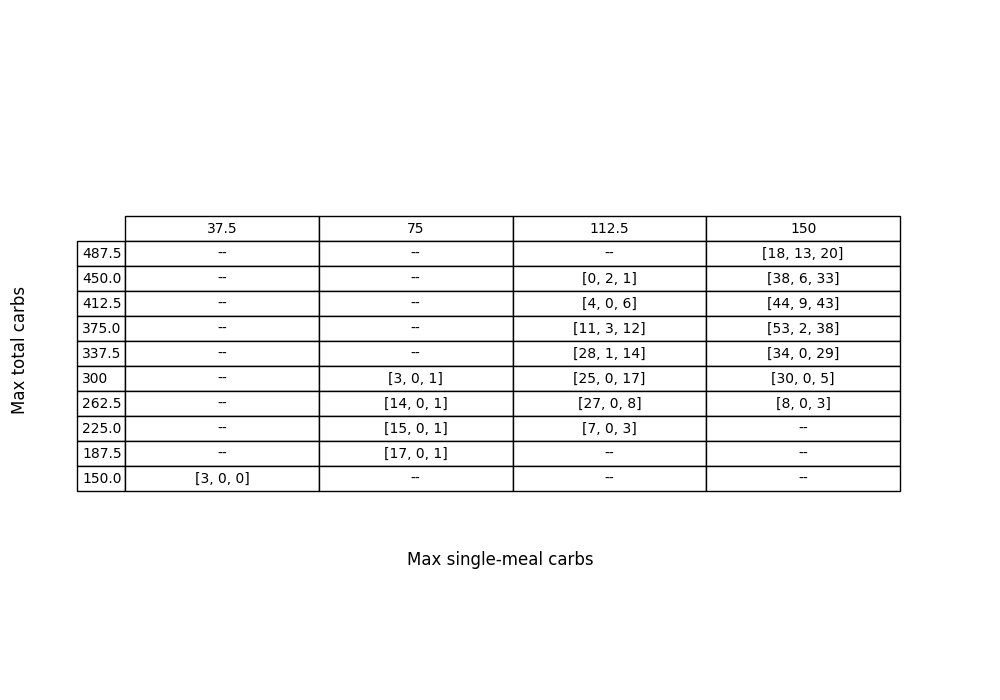
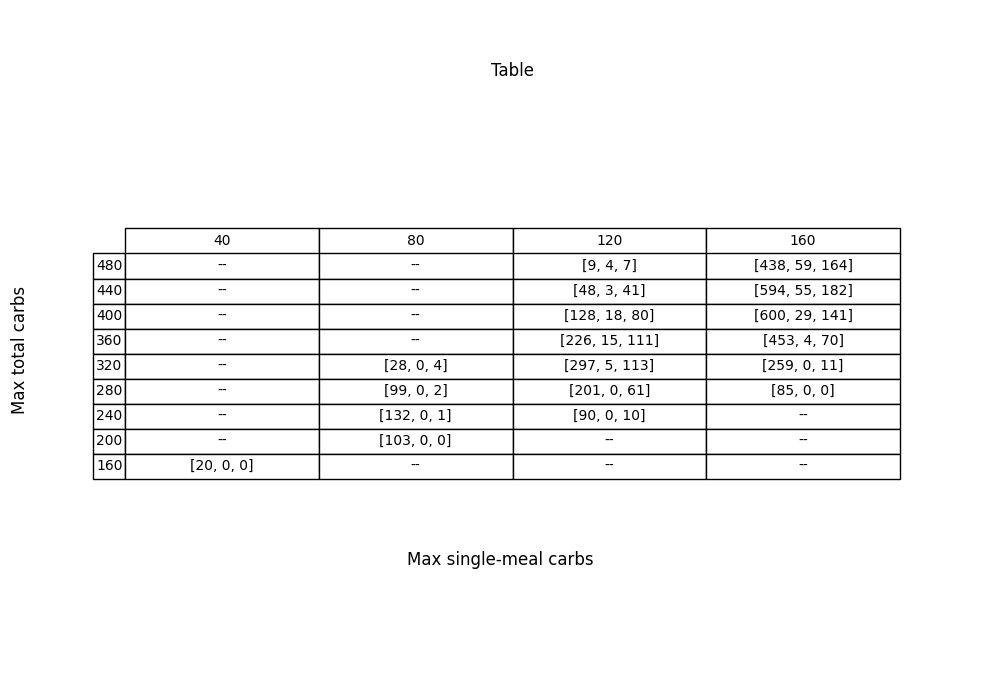
start analysis

Changed region(s): [[0.062, 0.3, 0.899, 0.72], [0.496, 0.09, 0.527, 0.12]]

diff --git a/pump/analysis.py b/pump/analysis.py
@@ -9,10 +9,13 @@ from artificial_pancreas_simulate import extract_variable
 
 # we will store a map of scenario: ([], [])
 
-def get_all_AGP_reports(results_gen: Generator[Tuple[SimulationScenario, AnalysisTree, object], None, None]):
+
+
+def get_all_AGP_reports(scenarios: Dict[SimulationScenario, Tuple[str, str]]) -> Dict[SimulationScenario, Tuple]:
     reports = {}
     count = 0
-    for (scenario, traces, safety) in results_gen:
+    for scenario, path in scenarios.items():
+        scenario, traces, safety = load_from_dir(path[0], path[1])
         glucose_reachtube = extract_variable(traces, 'G', type=TraceType.VERIF)
         reachtube_report = AGP_report(glucose_reachtube)
         sim_reports = []
@@ -24,9 +27,11 @@ def get_all_AGP_reports(results_gen: Generator[Tuple[SimulationScenario, Analysi
         count += 1
         if count % 100 == 0:
             print(count)
+            if count == 1000:
+                break
     return reports
 
-def two_way_analysis(results: List[Tuple[SimulationScenario, object, object]], index):
+def two_way_analysis(scenarios: List[Tuple[SimulationScenario, object, object]], index):
     points_safe = []
     points_unsafe = []
 
@@ -65,29 +70,29 @@ def compute_proof_statistics(results: List[Tuple[SimulationScenario, object, obj
         perfectly_unsafe += np.min(1 - np.array(result[2], dtype=int))
     return totals / len(results), perfect / len(results), perfectly_unsafe / len(results)
 
-def save_results_by_scenario(results_gen, to_save, output_dir):
-    to_save = set(to_save)
-    breakpoint()
-    for result in results_gen:
-        if result[0] in to_save:
-            save_scenario_results(result[0], result[1], result[2], output_dir)
+def save_results_by_scenario(all_scenarios: Dict[SimulationScenario, Tuple[str, str]], to_save: List[SimulationScenario], output_dir):
+    for scenario in to_save:
+        path = all_scenarios[scenario]
+        result = load_from_dir(path[0], path[1])
+        save_scenario_results(result[0], result[1], result[2], output_dir)
+    
 
-def redzone_analysis(result_func: Callable[[], Generator[Tuple[SimulationScenario, AnalysisTree, object], None, None]], low: bool):
-    def key(scenario):
+def redzone_analysis(scenarios: Dict[SimulationScenario, Tuple[str, str]]):
+    def key(reports, scenario):
         report = reports[scenario]
-        return report[0][2][1] - report[0][2][0]
         sim_reports = report[1]
         max_redzone_perc = 0
         for sim_report in sim_reports:
-            redzone = sim_report[0] if low else sim_report[-1]
+            redzone = sim_report[0]
             max_redzone_perc = max(max_redzone_perc, redzone)
         return max_redzone_perc
     
-    reports = get_all_AGP_reports(result_func())
+    reports = get_all_AGP_reports(scenarios)
     # sort scenarios by report value
-    scenarios = sorted(reports.keys(), key=key, reverse=True)
-    top_scenarios = set(scenarios[:10])
-    save_results_by_scenario(result_func(), top_scenarios, 'results/bad_verif')
+    top_scenarios = sorted(reports.keys(), key=lambda scenario: key(reports, scenario), reverse=True)
+    top_scenarios = set(top_scenarios[:10])
+    breakpoint()
+    save_results_by_scenario(scenarios, top_scenarios, 'results/bad_verif')
 
 def extended_shutoff_analysis(result_func: Callable[[], Generator[Tuple[SimulationScenario, AnalysisTree, object], None, None]]):
    
@@ -102,6 +107,77 @@ def extended_shutoff_analysis(result_func: Callable[[], Generator[Tuple[Simulati
     top_scenarios = set(scenarios[:10])
     save_results_by_scenario(result_func(), top_scenarios, 'results/bad_verif')
 
+# walks through all subdirs in result_dir and converts any traces.pkl to traces.gzip
+def compress_traces(result_dir):
+    scenarios = []
+    scenario_dirs = [ f for f in os.scandir(result_dir) if f.is_dir() ] if os.path.exists(result_dir) else []
+    count = 0
+    for scenario_dir in tqdm(scenario_dirs):
+        trace_path = os.path.join(scenario_dir, 'traces.pkl')
+        if not os.path.exists(trace_path):
+            # compressed already
+            continue
+        
+        try:
+            with open(trace_path, 'rb') as f:
+                traces = pickle.load(f)
+        except:
+            continue
+        
+        tqdm.write(f'compressing traces for {scenario_dir}')
+        # dump gzip
+        gzip_path = os.path.join(scenario_dir, 'traces.gzip')
+        with gzip.open(gzip_path, 'wb') as f:
+            pickle.dump(traces, f)    
+
+def table_analysis(results: List[Tuple[SimulationScenario, object, object]], zone, figname='table.png', title='Table'):
+    print('Starting table analysis')
+    data = {}
+    for result in tqdm(results):
+        safety = result[2]
+        key = (result[0].get_largest_meal(), result[0].get_total_carb_range()[1])
+        if key not in data:
+            data[key] = np.zeros((3,))
+        data[key] += np.array([get_safe(safety)[zone], get_unsafe(safety[zone]), get_unknown(safety)[zone]])
+
+    # convert to percentages
+
+
+    x_values = sorted(set(key[0] for key in data))
+    y_values = sorted(set(key[1] for key in data), reverse=True)
+    df = pd.DataFrame(index=y_values, columns=x_values)
+
+    # Fill DataFrame with formatted values
+    for (x, y), vals in data.items():
+        df.at[y, x] = f"[{int(vals[0])}, {int(vals[1])}, {int(vals[2])}]"
+    df = df.fillna("--")
+    # Create the figure and axis
+    fig, ax = plt.subplots(figsize=(10, 7))
+    ax.axis('off')
+    print(len(x_values))
+    print(len(y_values))
+    # Create table without row and column labels
+    table = ax.table(
+        cellText=df.values,
+        cellLoc='center',
+        loc='center', 
+        rowLabels=y_values,
+        colLabels=x_values
+    )
+
+    # Style table
+    table.auto_set_font_size(False)
+    table.set_fontsize(10)
+    table.scale(1, 1.5)
+
+    # Add axis labels
+    plt.title(title)
+    plt.figtext(0.5, 0.2, 'Max single-meal carbs', ha='center', va='center', fontsize=12)
+    plt.figtext(0.02, 0.5, 'Max total carbs', ha='center', va='center', rotation='vertical', fontsize=12)
+    plt.savefig(figname)
+    return data
+
+
 if __name__ == '__main__':
     # debug_sim('results/bad_verif', 'scenario_5', 1)
     # seed = 42
@@ -113,7 +189,9 @@ if __name__ == '__main__':
     # for scenario in scenarios:
     #     f.write(str(hash(scenario)) + '\n')
     # f.close()
-
-    scenarios = load_scenarios('results/verification_dedup/verification')
-    print(len(scenarios))
-    print(len(set(scenarios)))
+    g = load_results_gen('/mnt/shared/gpfs/home/ndate2/InsulinPump/results/verification')
+    results = []
+    for i in tqdm(range(5000)):
+        results.append(next(g))
+    table_analysis(results, 0)
+    breakpoint()

diff --git a/pump/verification.py b/pump/verification.py
@@ -282,6 +282,20 @@ def load_scenarios(output_dir) -> List[SimulationScenario]:
             pass
     return scenarios
 
+# returns a mapping of scenarios to paths
+# (allows easy lookup of traces from disk in a secondary pass)
+def load_scenarios_and_dirs(result_dir: str) -> Dict[SimulationScenario, Tuple[str, str]]:
+    scenarios = {}
+    scenario_dirs = [ f for f in os.scandir(result_dir) if f.is_dir() ] if os.path.exists(result_dir) else []
+    for scenario_dir in tqdm(scenario_dirs):
+        try:
+            with open(os.path.join(scenario_dir.path, 'scenario.pkl'), 'rb') as f:
+                scenario = pickle.load(f)
+            scenarios[scenario] = (result_dir, scenario_dir.path)
+        except:
+            pass
+    return scenarios
+
 
 def load_results(output_dir) -> List[Tuple[SimulationScenario, object, object]]:
     results = []
@@ -290,7 +304,7 @@ def load_results(output_dir) -> List[Tuple[SimulationScenario, object, object]]:
         try:
             with open(os.path.join(scenario_dir.path, 'scenario.pkl'), 'rb') as f:
                 scenario = pickle.load(f)
-            with open(os.path.join(scenario_dir.path, 'traces.pkl'), 'rb') as f:
+            with gzip.open(os.path.join(scenario_dir.path, 'traces.gzip'), 'rb') as f:
                 traces = pickle.load(f)
             with open(os.path.join(scenario_dir.path, 'safety.txt')) as f:
                 safety = ast.literal_eval(f.read())
@@ -306,7 +320,7 @@ def load_results_gen(output_dir) -> Generator[Tuple[SimulationScenario, Analysis
         try:
             with open(os.path.join(scenario_dir.path, 'scenario.pkl'), 'rb') as f:
                 scenario = pickle.load(f)
-            with open(os.path.join(scenario_dir.path, 'traces.pkl'), 'rb') as f:
+            with gzip.open(os.path.join(scenario_dir.path, 'traces.gzip'), 'rb') as f:
                 traces = pickle.load(f)
             with open(os.path.join(scenario_dir.path, 'safety.txt')) as f:
                 safety = ast.literal_eval(f.read())
@@ -314,17 +328,17 @@ def load_results_gen(output_dir) -> Generator[Tuple[SimulationScenario, Analysis
         except:
             continue
 
-def load_from_dir(output_dir, scenario_dir) -> Tuple[SimulationScenario, Any, Any]:
+def load_from_dir(output_dir, scenario_dir) -> Tuple[SimulationScenario, AnalysisTree, List[bool]]:
     scenario_dir = os.path.join(output_dir, scenario_dir)
     scenario, traces, safety = None, None, None
     scenario_path = os.path.join(scenario_dir, 'scenario.pkl')
-    traces_path = os.path.join(scenario_dir, 'traces.pkl')
+    traces_path = os.path.join(scenario_dir, 'traces.gzip')
     safety_path = os.path.join(scenario_dir, 'safety.txt')
     if os.path.exists(scenario_path):
         with open(scenario_path, 'rb') as f:
             scenario = pickle.load(f)
     if os.path.exists(traces_path):
-        with open(traces_path, 'rb') as f:
+        with gzip.open(traces_path, 'rb') as f:
             traces = pickle.load(f)
     if os.path.exists(safety_path):
         with open(safety_path) as f:
@@ -413,50 +427,6 @@ def save_perfectly_unsafe(results, log_dir):
     for result in results:
         if np.min(1 - np.array(np.array(result[2]) == True, dtype=int)) > 0:
             save_scenario_results(result[0], result[1], result[2], log_dir)
-
-def table_analysis(results: List[Tuple[Scenario, object, object]], index, figname='table.png', title='Table'):
-    data = {}
-    for result in results:
-        safety = result[2]
-        key = (result[0].get_largest_meal(), result[0].get_total_carb_range()[1])
-        if key not in data:
-            data[key] = np.zeros((3,))
-        data[key] += np.array([get_safe(safety)[index], get_unsafe(safety[index]), get_unknown(safety)[index]])
-
-    x_values = sorted(set(key[0] for key in data))
-    y_values = sorted(set(key[1] for key in data), reverse=True)
-    df = pd.DataFrame(index=y_values, columns=x_values)
-
-    # Fill DataFrame with formatted values
-    for (x, y), vals in data.items():
-        df.at[y, x] = f"[{int(vals[0])}, {int(vals[1])}, {int(vals[2])}]"
-    df = df.fillna("--")
-
-    # Create the figure and axis
-    fig, ax = plt.subplots(figsize=(10, 7))
-    ax.axis('off')
-    print(len(x_values))
-    print(len(y_values))
-    # Create table without row and column labels
-    table = ax.table(
-        cellText=df.values,
-        cellLoc='center',
-        loc='center', 
-        rowLabels=y_values,
-        colLabels=x_values
-    )
-
-    # Style table
-    table.auto_set_font_size(False)
-    table.set_fontsize(10)
-    table.scale(1, 1.5)
-
-    # Add axis labels
-    plt.title(title)
-    plt.figtext(0.5, 0.2, 'Max single-meal carbs', ha='center', va='center', fontsize=12)
-    plt.figtext(0.02, 0.5, 'Max total carbs', ha='center', va='center', rotation='vertical', fontsize=12)
-    plt.savefig(figname)
-    return data
 
 def get_init(traces, index):
     return traces.root.sims[index][0][1:]
